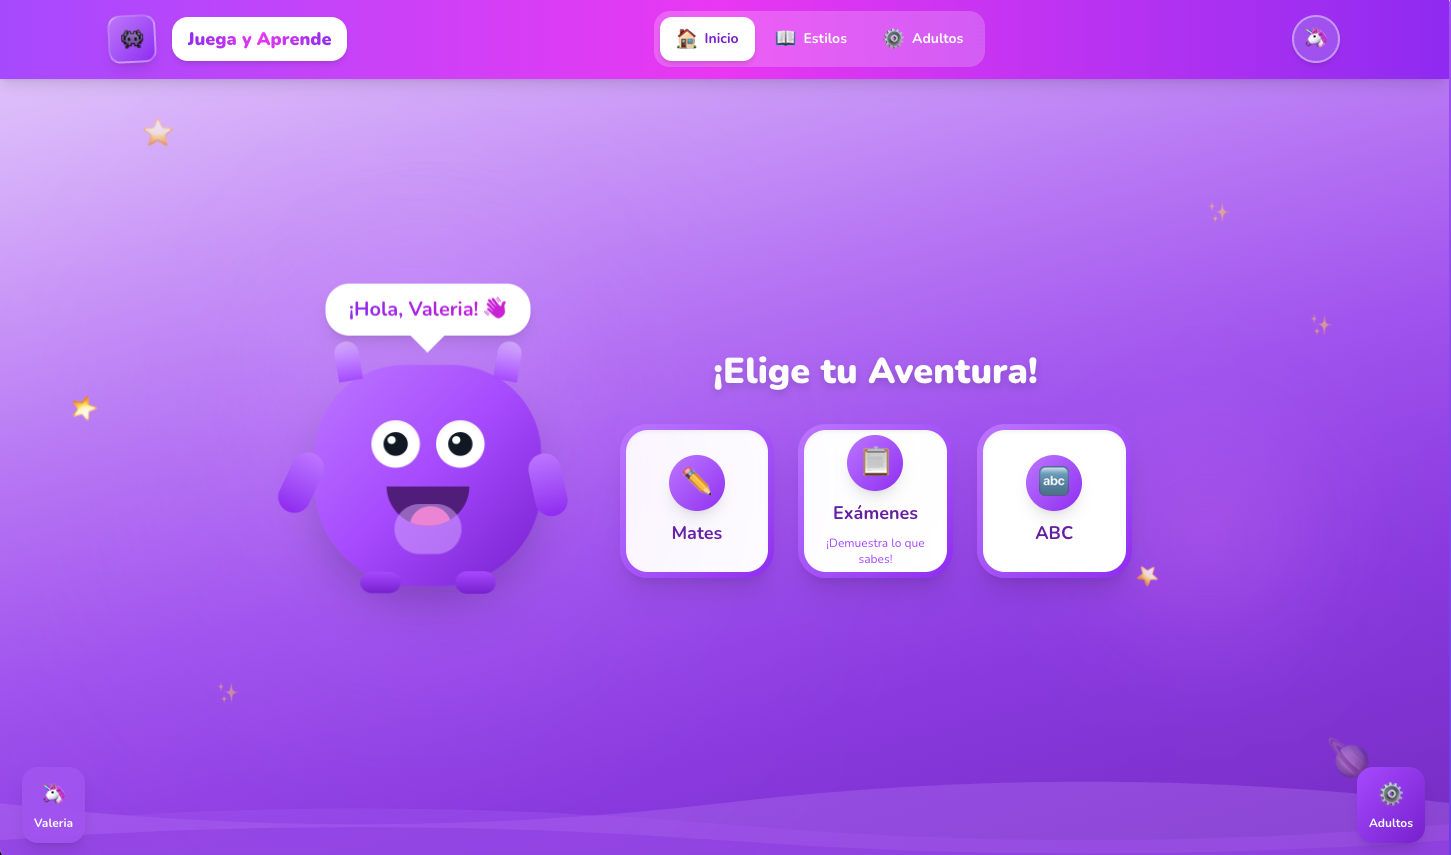
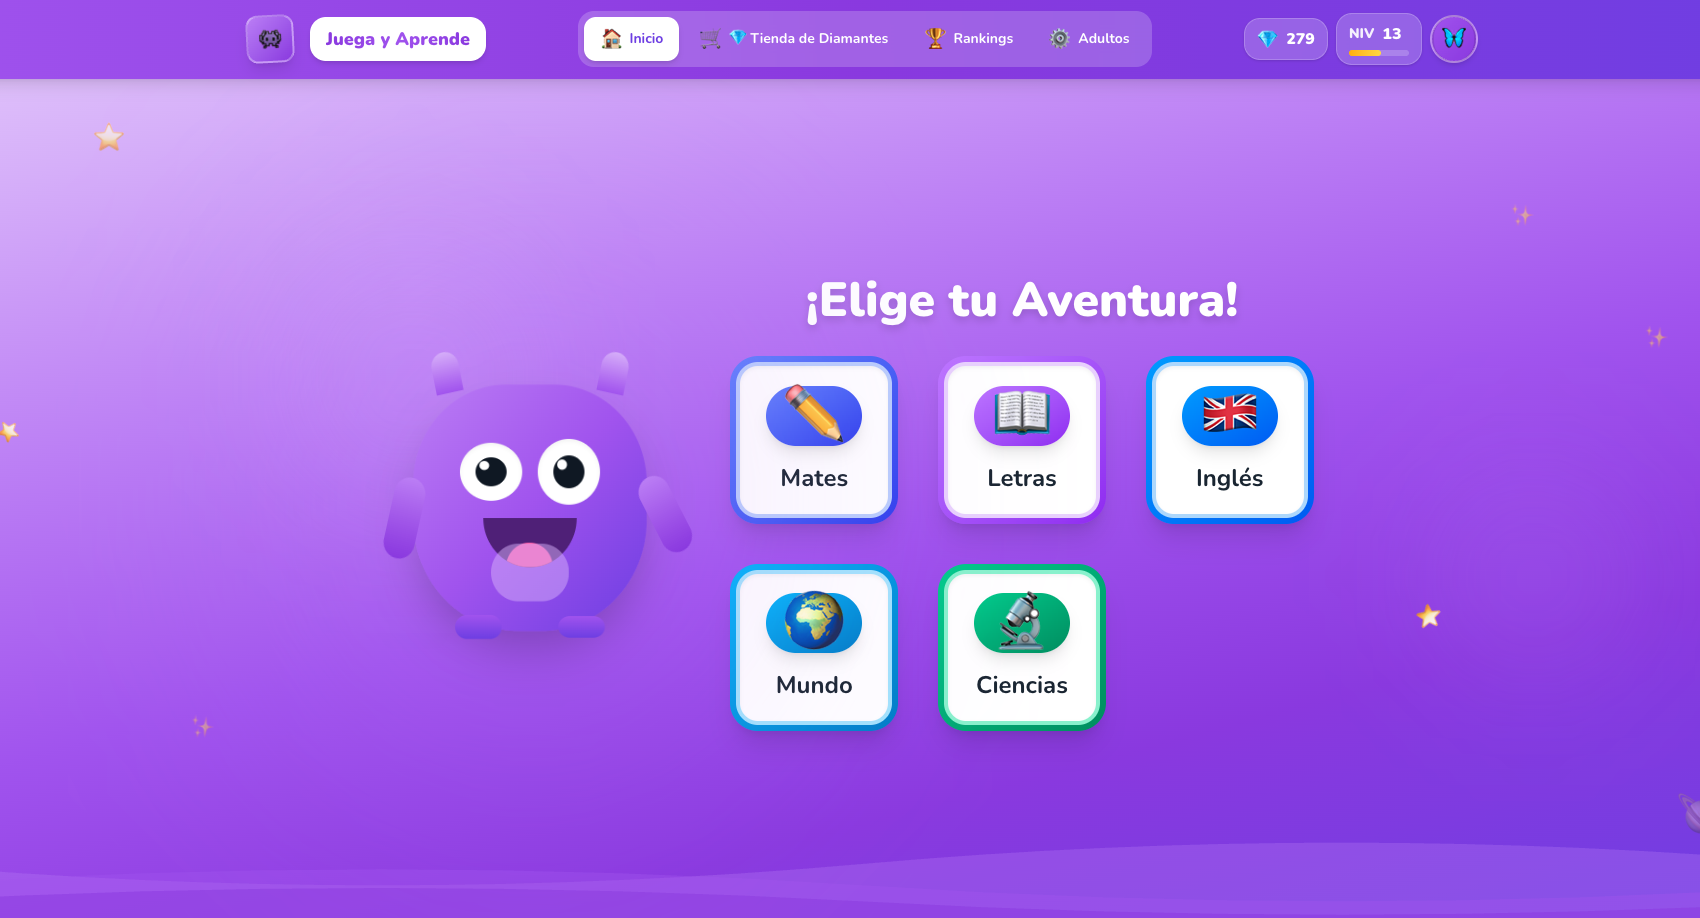
fix: update project dates and rename tech blog project title; replace portfolio and hello cosmos screenshots

diff --git a/src/data/projects.ts b/src/data/projects.ts
@@ -18,7 +18,7 @@ export const projects: Project[] = [
   {
     id: "bcv-rates",
     title: "BCV Exchange Rates",
-    date: "2025",
+    date: "2026",
     description: {
       en: "Web application for tracking and displaying Venezuelan Bolivar exchange rates from Banco Central de Venezuela. Built with modern web technologies for real-time currency information.",
       es: "Aplicación web para rastrear y mostrar las tasas de cambio del Bolívar venezolano desde el Banco Central de Venezuela. Construida con tecnologías web modernas para información de divisas en tiempo real.",
@@ -44,7 +44,7 @@ export const projects: Project[] = [
   },
   {
     id: "tech-blog",
-    title: "Sneyder's Chronicles",
+    title: "Sneyder's Notes",
     date: "2025",
     description: {
       en: "Personal tech blog exploring web development, software architecture, and the latest in technology. Features thoughts, tutorials, and deep dives into tools and frameworks.",
